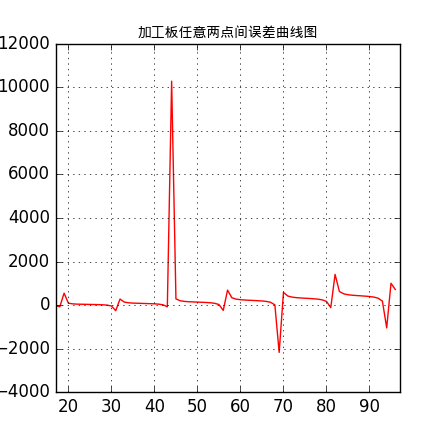
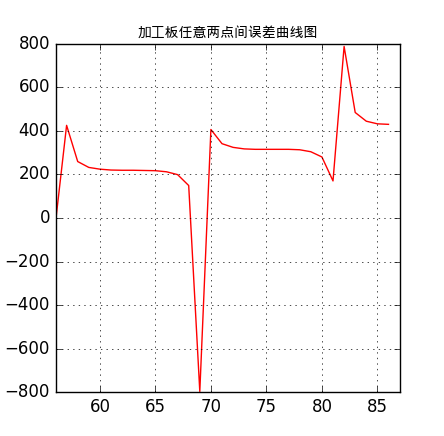
ZJ/完成任意路劲显示

diff --git a/code/LaserQt_FourthWindow.py b/code/LaserQt_FourthWindow.py
@@ -311,8 +311,49 @@ class LaserQtFourthWindow(QWidget):
                 self.canvas06.print_figure("LaserQt_Temp/between_two_arbitrary_point_error_curve.png")
                 self.canvas06.draw()
                 self.canvas06.axes.hold(False)
-            elif math.abs(k) > 1:
-                pass
-            elif math.abs(k) < 1:
-                pass
-                
+            else:
+                if abs(k) > 1:
+                    error.append(self.Z1[100 * (x_start - 1) + y_start] - self.Z2[100 * (x_start - 1) + y_start])
+                    for i in range(y_start + 1, y_end):
+                        _x = (1/k) * (i - y_start) + x_start
+                        _x_ceil = math.ceil(_x); _x_floor = math.floor(_x)
+                        if _x_ceil == _x_floor:
+                            error.append(self.Z1[100 * (_x - 1) + i] - self.Z2[100 * (_x - 1) + i])
+                        else:
+                            _error_up = self.Z1[100 * (_x_ceil - 1) + i] - self.Z2[100 * (_x_ceil - 1) + i]
+                            _error_down = self.Z1[100 * (_x_floor - 1) + i] - self.Z2[100 * (_x_floor - 1) + i]
+                            _error = int(_error_up * (_x_ceil - _x)/(_x_ceil - _x_floor) + _error_down * (_x - _x_floor)/(_x_ceil - _x_floor))
+                            error.append(_error)
+                    error.append(self.Z1[100 * (x_end - 1) + y_end] - self.Z2[100 * (x_end - 1) + y_end])
+                    self.canvas06.axes.plot()
+                    self.canvas06.axes.hold(True)
+                    self.canvas06.axes.set_xlim([y_start, y_end + 1])
+                    self.canvas06.axes.set_title("加工板任意两点间误差曲线图", fontproperties=FONT, fontsize=14)
+                    self.canvas06.axes.grid(True, which="both")
+                    self.canvas06.axes.plot(range(y_start, y_end + 1), error, 'r')
+                    self.canvas06.print_figure("LaserQt_Temp/between_two_arbitrary_point_error_curve.png")
+                    self.canvas06.draw()
+                    self.canvas06.axes.hold(False)
+                elif abs(k) < 1:
+                    error.append(self.Z1[100 * (x_start - 1) + y_start] - self.Z2[100 * (x_start - 1) + y_start])
+                    for i in range(x_start + 1, x_end):
+                        _y = k * (i - x_start) + y_start
+                        _y_ceil = math.ceil(_y); _y_floor = math.floor(_y)
+                        if _y_ceil == _y_floor:
+                            error.append(self.Z1[100 * (i - 1) + _y_ceil] - self.Z2[100 * (i - 1) + _y_ceil])
+                        else:
+                            _error_up = self.Z1[100 * (i - 1) + _y_ceil] - self.Z2[100 * (i - 1) + _y_ceil]
+                            _error_down = self.Z1[100 * (i - 1) + _y_floor] - self.Z2[100 * (i - 1) + _y_floor]
+                            _error = int(_error_up * (_y_ceil - _y)/(_y_ceil - _y_floor) + _error_down * (_y - _y_floor)/(_y_ceil - _y_floor))
+                            error.append(_error)
+                    error.append(self.Z1[100 * (x_end - 1) + y_end] - self.Z2[100 * (x_end - 1) + y_end])
+                    self.canvas06.axes.plot()
+                    self.canvas06.axes.hold(True)
+                    self.canvas06.axes.set_xlim([x_start, x_end + 1])
+                    self.canvas06.axes.set_title("加工板任意两点间误差曲线图", fontproperties=FONT, fontsize=14)
+                    self.canvas06.axes.grid(True, which="both")
+                    self.canvas06.axes.plot(range(x_start, x_end + 1), error, 'r')
+                    self.canvas06.print_figure("LaserQt_Temp/between_two_arbitrary_point_error_curve.png")
+                    self.canvas06.draw()
+                    self.canvas06.axes.hold(False)
+                    
